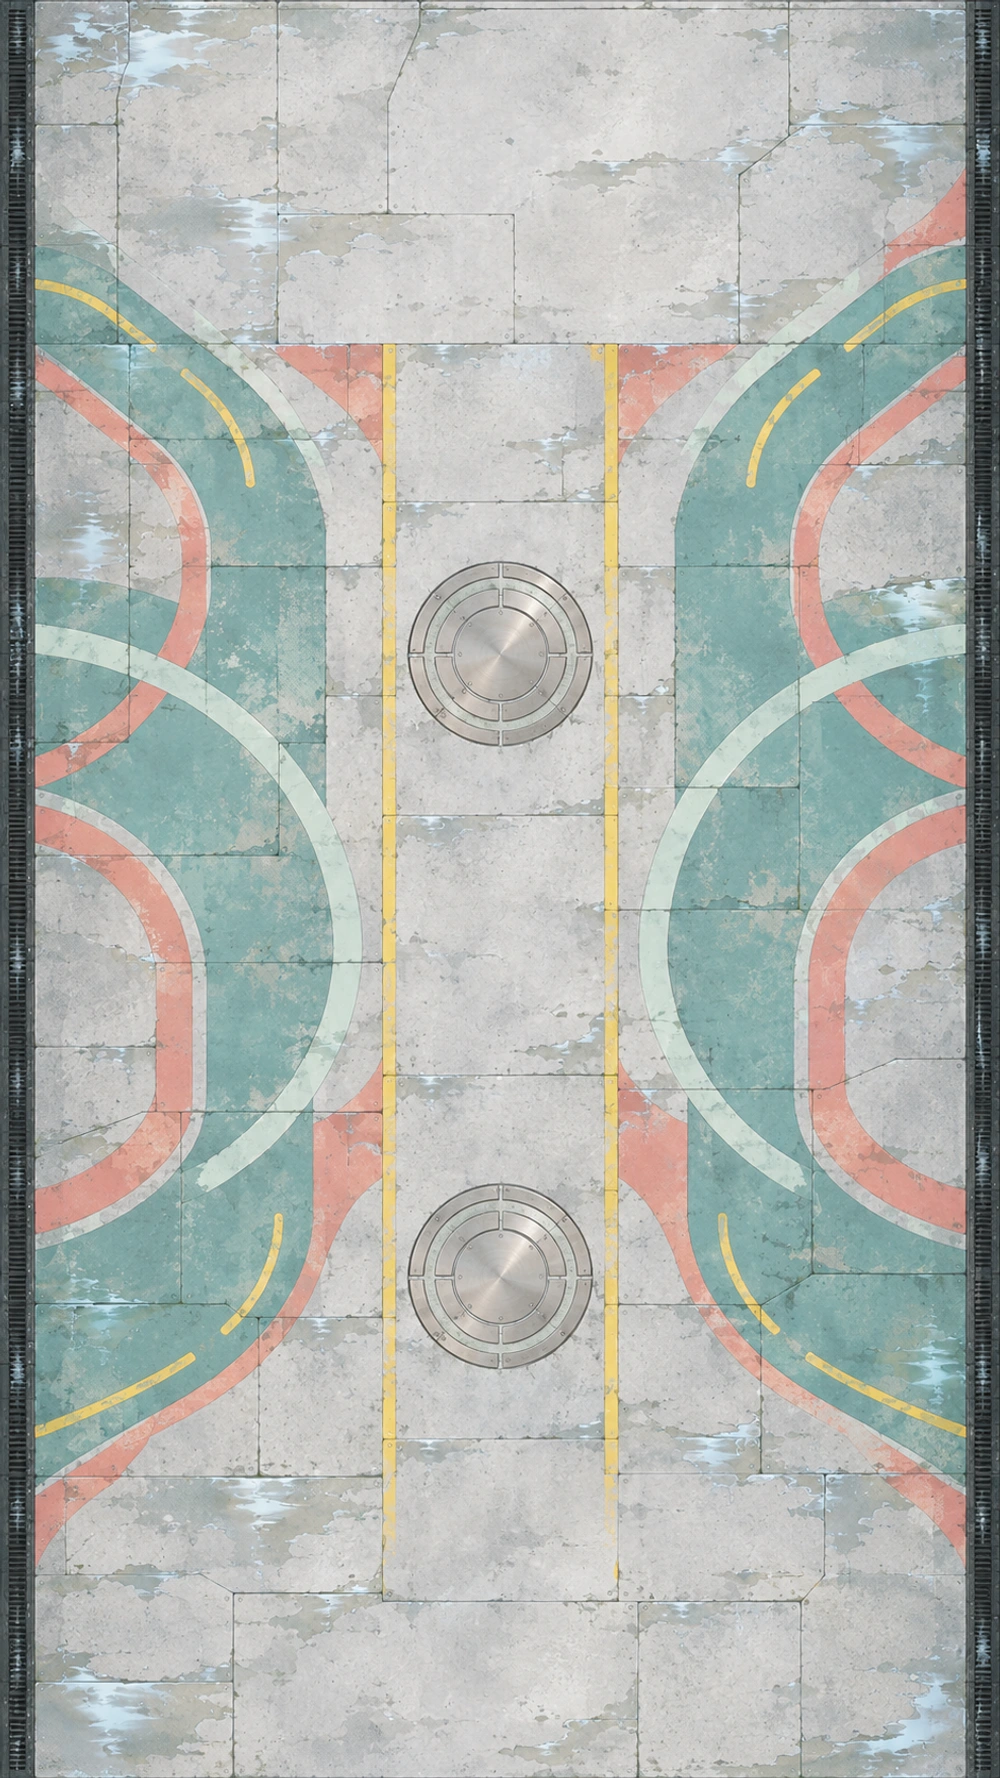
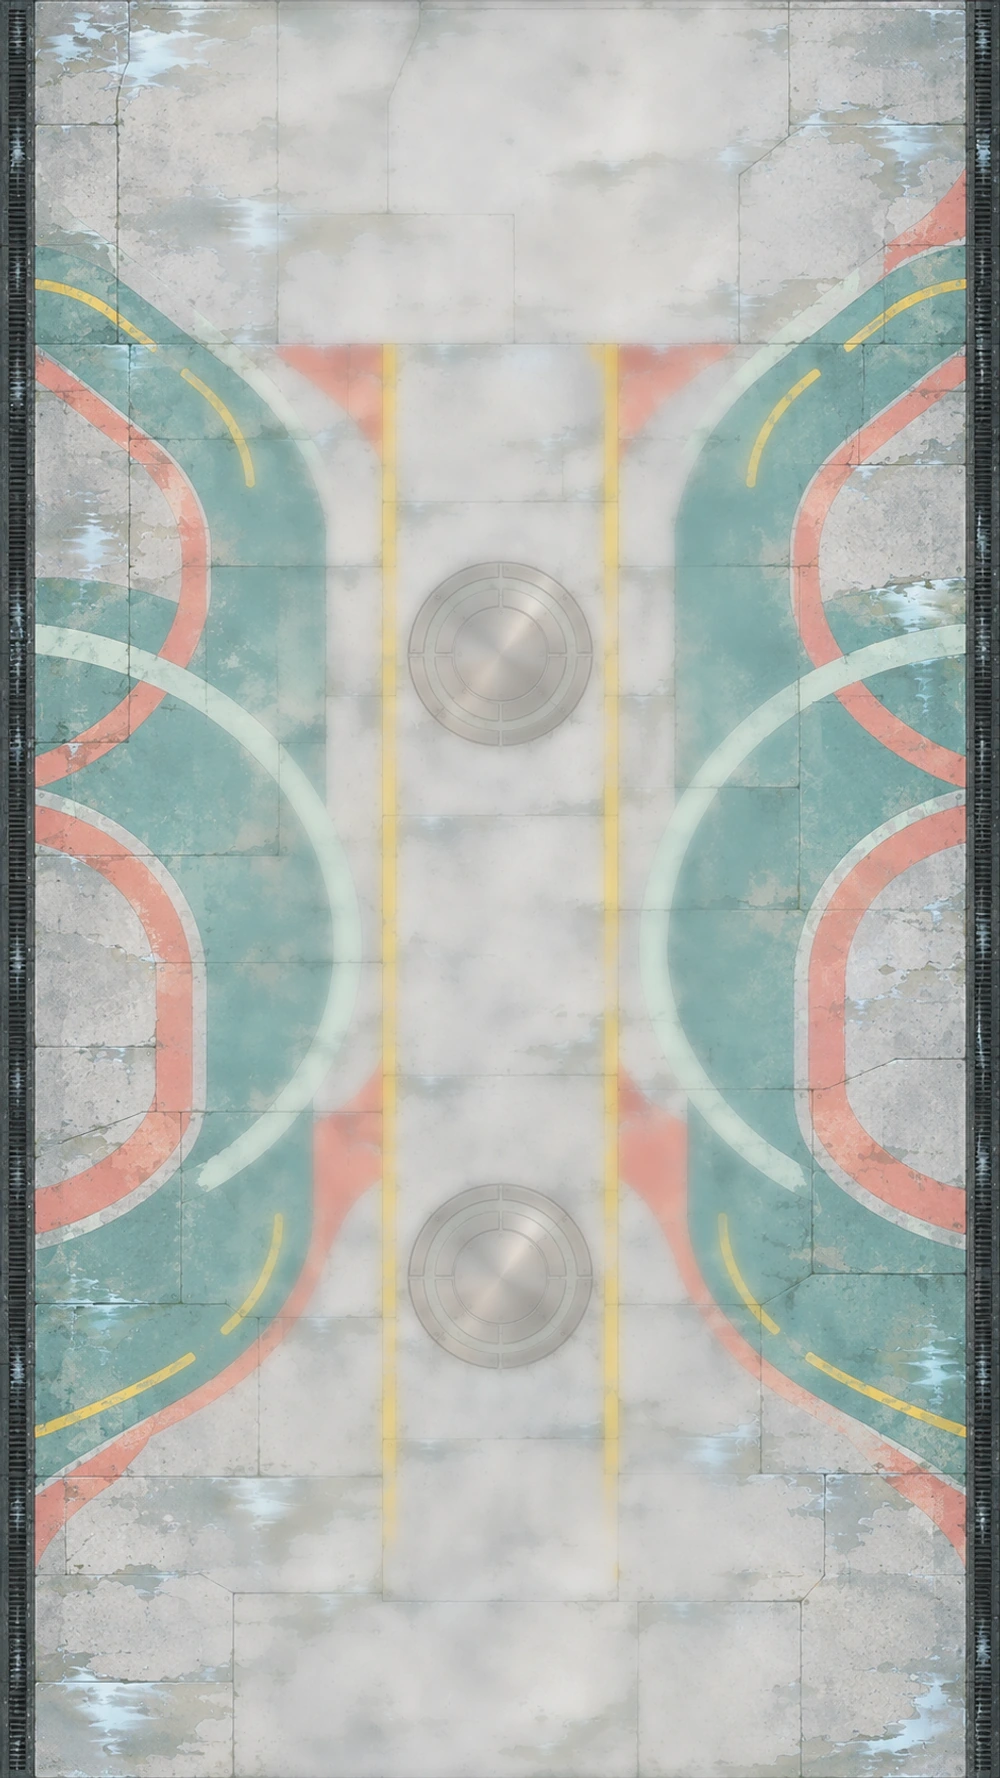
Connect the five chapter landmarks to their actual power, calibration and return states

diff --git a/01-美术/chapter-landmarks/export.py b/01-美术/chapter-landmarks/export.py
@@ -1,0 +1,83 @@
+"""Export the authored curbside signs, load-out bay and calibrated roof paving."""
+from pathlib import Path
+import sys
+
+import numpy as np
+from PIL import Image, ImageDraw, ImageFilter, ImageOps
+
+source = Path(__file__).resolve().parent
+public = source.parents[1] / "game" / "public" / "art"
+dest = Path(sys.argv[1]) if len(sys.argv) > 1 else public
+master = Image.open(source / "props-master.png").convert("RGBA")
+width, height = master.size
+
+def save(image, path):
+    path = dest / path
+    path.parent.mkdir(parents=True, exist_ok=True)
+    tmp = path.with_suffix(".tmp")
+    image.save(tmp, format="WEBP", quality=93, method=6, exact=True)
+    tmp.replace(path)
+
+def quadrant(column, row):
+    tile = master.crop((width*column//2,height*row//2,width*(column+1)//2,height*(row+1)//2))
+    # A tiny isolated edge pixel can otherwise move the transparent padding.
+    box = tile.getchannel("A").point(lambda v: 255 if v >= 35 else 0).getbbox()
+    return tile.crop(box)
+
+for name, column, row in [("headphones",1,0),("cup",0,1),("record",1,1)]:
+    prop = quadrant(column, row)
+    prop.thumbnail((105, 133), Image.Resampling.LANCZOS)
+    canvas = Image.new("RGBA", (112, 140))
+    canvas.alpha_composite(prop, ((112-prop.width)//2, 137-prop.height))
+    save(canvas, "chapter-landmarks/" + name + ".webp")
+
+lights = Image.open(source/"lights-master.png").convert("RGBA")
+cell = lights.width // 3
+for col, name in enumerate(("sail-left","sail-right","roof-console")):
+    panel = lights.crop((col*cell,0,(col+1)*cell,lights.height))
+    panel = panel.crop(panel.getchannel("A").point(lambda v: 255 if v >= 35 else 0).getbbox())
+    frame_size = (152,128) if name=="roof-console" else (114,152)
+    panel.thumbnail((frame_size[0]-5,frame_size[1]-5),Image.Resampling.LANCZOS)
+    frame = Image.new("RGBA",frame_size)
+    frame.alpha_composite(panel,((frame.width-panel.width)//2,frame.height-2-panel.height))
+    save(frame, "chapter-landmarks/"+name+".webp")
+
+# Keep the original shelter silhouette and walkable footprint. The equipment is
+# inside the right-hand loading bay, where it remains visible from the spawn.
+cart = quadrant(0,0)
+cart.thumbnail((182,190), Image.Resampling.LANCZOS)
+for muted in (False, True):
+    name = "shed-muted.webp" if muted else "shed.webp"
+    shed = Image.open(public/"harbor-cohesion-20261009"/name).convert("RGBA")
+    decoration = cart.copy()
+    if muted:
+        graded = ImageOps.colorize(ImageOps.grayscale(cart), "#253039", "#dcd9ca").convert("RGBA")
+        graded.putalpha(cart.getchannel("A"))
+        decoration = Image.blend(graded, cart, 0.23)
+    shed.alpha_composite(decoration, (shed.width-17-cart.width, shed.height-16-cart.height))
+    save(shed, "chapter-landmarks/" + name)
+
+# Show hinge barrels, opening seam and handle on the existing interactive gate.
+gate = Image.open(source/"loading-gate-source.webp").convert("RGBA")
+d = ImageDraw.Draw(gate)
+for x in (4, gate.width-24):
+    for y in (22, 85):
+        d.rounded_rectangle((x,y,x+18,y+29),radius=4,fill="#404f55",outline="#e4d8af",width=3)
+        d.line((x+3,y+12,x+16,y+12),fill="#eec66f",width=4)
+for y in (30,65,101):
+    d.polygon([(137,y-2),(146,y-2),(136,y+15),(128,y+15)],fill="#e1b158",outline="#394247")
+d.rounded_rectangle((148,59,161,85),radius=4,fill="#23353b",outline="#f9e3aa",width=3)
+save(gate,"street-volume-20260913/gate.webp")
+
+# Suppress speckle through the main walking and tuning lane. Preserve large
+# slab seams and both engraved circular covers, with more patina at the sides.
+for mode in ("neutral","color"):
+    floor = Image.open(source/("roof-"+mode+"-source.webp")).convert("RGB")
+    pixels = np.asarray(floor).astype(float)
+    coarse = np.asarray(floor.filter(ImageFilter.GaussianBlur(6.5))).astype(float)
+    x = np.arange(floor.width)
+    along = np.clip((x-85)/245,0,1) * np.clip((floor.width-85-x)/245,0,1)
+    along = along*along*(3-2*along)
+    mix = (along*.79)[None,:,None]
+    result = np.rint(pixels*(1-mix)+coarse*mix).clip(0,255).astype("uint8")
+    save(Image.fromarray(result), "rooftop-20261103/"+mode+".webp")

diff --git a/01-美术/chapter-landmarks/README.md b/01-美术/chapter-landmarks/README.md
@@ -1,0 +1,9 @@
+# 巡演现场的店灯、收工车和屋顶
+
+`props-master.png` 是本项目 2026-11-25 用 GPT 生成的透明道具原画。四格依次是收工器材车、试听店耳机灯、咖啡亭杯灯、唱片店灯箱。导出器裁掉透明外边，把灯的实际脚座放回统一的画框。器材车与卷起的横幅叠在原来的港口棚屋网格内。未点亮和已上色状态保持同一物件、方向和轮廓。
+
+`lights-master.png` 是同期生成的第二张原画。左侧帆灯为单枚青色镜片，右侧帆灯是双枚琥珀色镜片。屋顶校音台画成带音叉、双表头和旋钮的实际设备。
+
+灰色与彩色屋顶底稿、装卸门底稿均保存自本项目本轮改动前的正式资源。屋顶导出保留原尺寸、大板缝与两边的风化纹理，中央走位和校音处逐渐减少斑点。装卸门在原门扇上增加铰链轴、把手和开缝标线。
+
+用带 Pillow、NumPy 的 Python 运行 `python 01-美术/chapter-landmarks/export.py` 可重导十一张运行图。可传一个替代输出目录复核。输入另用到正式目录中的 `harbor-cohesion-20261009/shed.webp` 与其去色版本，供收工车和既有建筑对齐。
